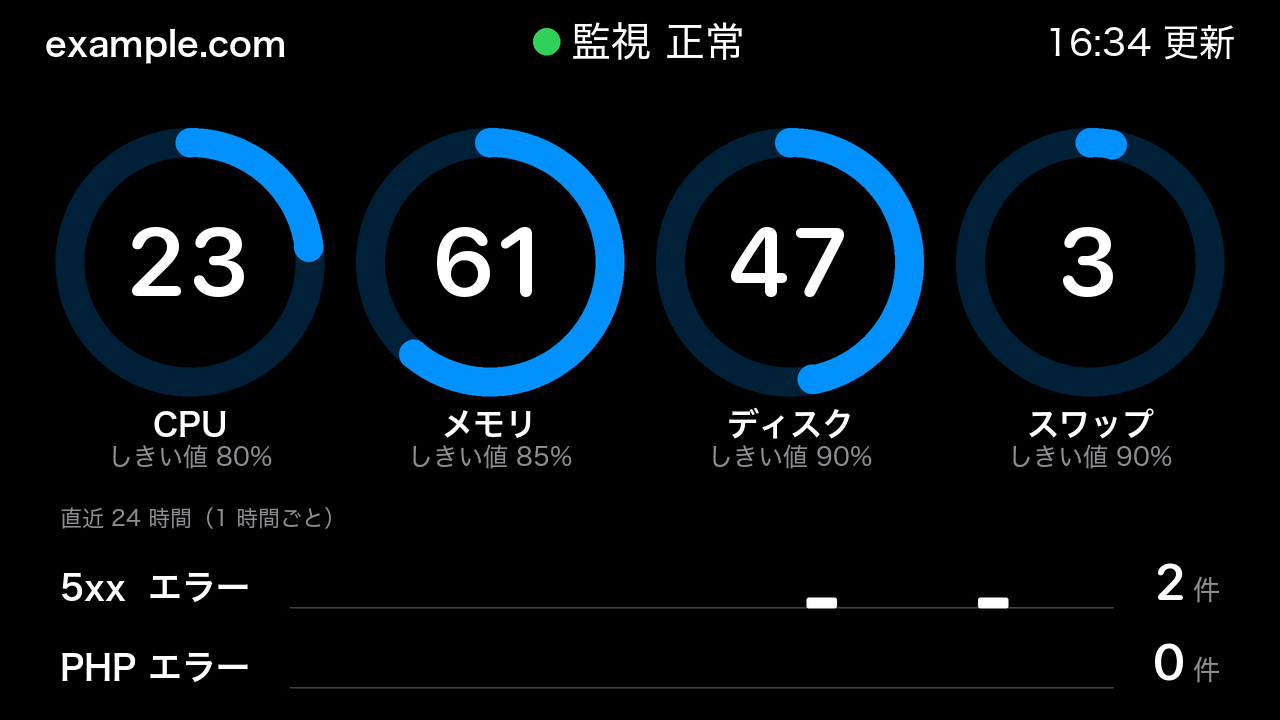
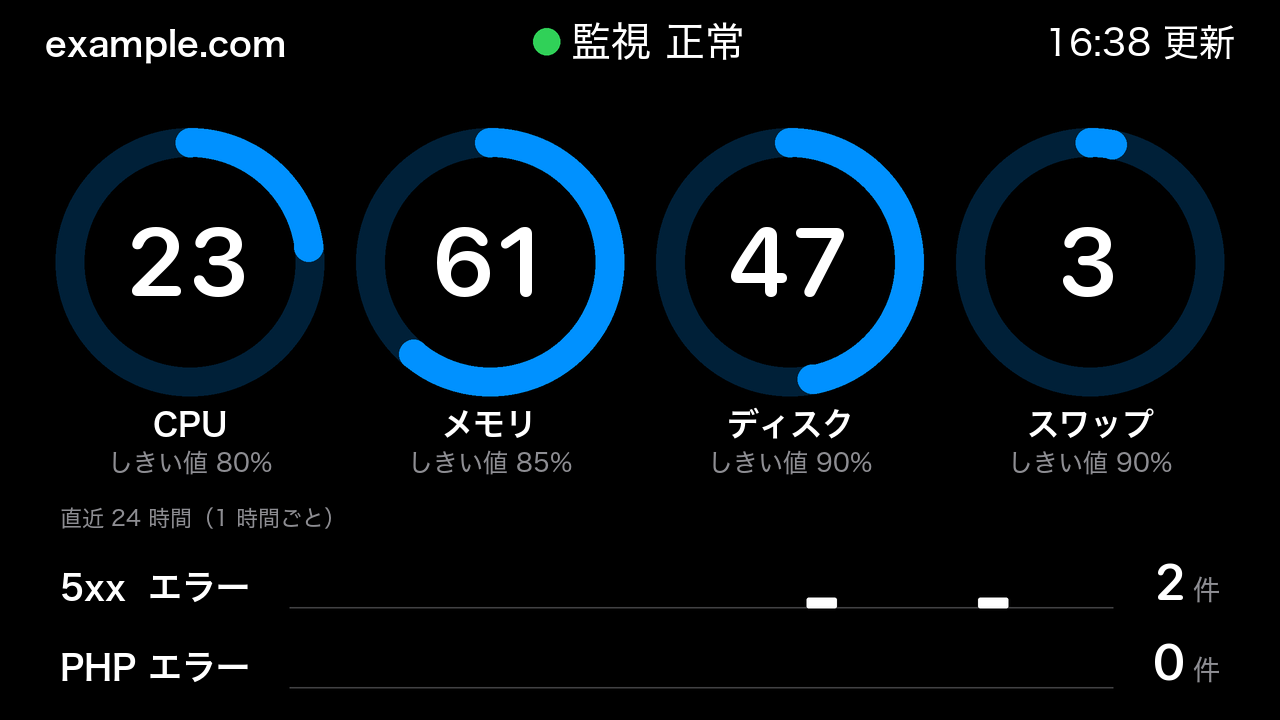
style(monitor): 5.2 インチの名前（CPU・メモリなど）としきい値の間を 5→11 px に空ける
しきい値の基準線を 466→472 px にする。リングと名前は動かさない。見本の 2 案から
ユーザーが選んだ。

diff --git a/claude_usage_display/monitor_screen.py b/claude_usage_display/monitor_screen.py
@@ -147,8 +147,10 @@ LANDSCAPE_LARGE = replace(
     # 外径 228→240 px・数字 81→86 px にした（同日、ユーザーの指示）。名前・しきい値の位置は変えていない
     # 続けて件数の行の間の罫線を消し（2026-11-04）、行の高さを 108→80 に詰めた分で、リングを外径 240→268 px・
     # 太さ 26→29 px・数字 86→97 px にした（同日、ユーザーの指示）。リングの上端 128 px と画面の下の余白 32 px は変えていない
+    # 続けて、名前としきい値の間を 5→11 px に空けた（しきい値の基準線 466→472 px。同日、ユーザーの指示「項目名と
+    # 下のしきい値の間をもう少し」。見本の 2 案から選んだ。しきい値と「直近 24 時間」の間は 38→32 px）
     ring=(0, _px(262), _px(134), _px(29)), label=(0, _px(436), "ms", 14), number=(0, _px(296), 43, 0, True),
-    threshold=(0, _px(466), "ms", 11), dividers=(),
+    threshold=(0, _px(472), "ms", 11), dividers=(),
     headings=((_px(60), _px(526), "直近 24 時間（1 時間ごと）", 10, SMALL_WEIGHT, "ls"),),
     # 件数の行の棒グラフは、右端を件数の数字の左から 40 px の所にする（2026-11-04、ユーザーの指示「横棒の後ろの件数の
     # 前の空きが気になる」。見本の 2 案から選んだ。それまでは幅 560 px の固定で、1 桁の件数との間が約 265 px 空いていた）。

diff --git a/tests/test_monitor_screen.py b/tests/test_monitor_screen.py
@@ -120,6 +120,20 @@ class MonitorScreenTest(unittest.TestCase):
         rows = large.counter_rows
         self.assertLessEqual(rows.top + rows.height * 2, 320)
 
+    def test_large_threshold_keeps_a_gap_below_the_label(self):
+        # 2026-11-04、「項目名と下のしきい値の間をもう少し隙間空けて」（ユーザーの指示）。字の形の間は 5→11 ピクセル
+        cfg = config(counters=COUNTERS)
+        st = status_with_counters()
+        image = ms.render(st, sm.assess(st, cfg, NOW), cfg, layout=ms.LANDSCAPE_LARGE)
+        k = ms.LANDSCAPE_LARGE.k
+        x0 = round(ms.LANDSCAPE_LARGE.cells[0][0] * k)  # 1 つ目（CPU）の列の中央
+        label_y, threshold_y = ms.LANDSCAPE_LARGE.label[1] * k, ms.LANDSCAPE_LARGE.threshold[1] * k
+        inked = [y for y in range(round(label_y - 40), round(threshold_y + 10))
+                 if any(min(image.getpixel((x, y))) > 60 for x in range(x0 - 90, x0 + 90))]
+        gaps = [b - a - 1 for a, b in zip(inked, inked[1:]) if b - a > 1]
+        self.assertEqual(len(gaps), 1)  # 名前としきい値の 2 つの字の並びの間
+        self.assertGreaterEqual(gaps[0], 10)
+
     def test_counter_rows_show_the_total_and_red_bars_for_alarmed_hours(self):
         cfg = config(counters=COUNTERS)
         st = status_with_counters(hourly_5xx=(0,) * 21 + (1, 3, 12), alarmed_5xx=(False,) * 23 + (True,))

diff --git a/docs/handover.md b/docs/handover.md
@@ -563,6 +563,13 @@ scripts/uninstall-launch-agent.sh                                 # 自動起動
 - **入れたこと**: `_CounterRows.spark` を（左端・幅・高さ・下端）から（名前・件数の数字との間・高さ・下端）に替え（5.2 インチは `_px(40)`）、両端は `monitor_screen._spark_span` で求める。字の端は送り幅ではなく字の形（`getbbox`）で測る。名前の分け方は `_counter_labels`、件数の文言と右端は `_counter_numbers`。テスト `test_spark_keeps_the_same_gap_to_the_label_and_the_number`（2 行の両端がそろうこと、左の間と、件数の幅の大きい行の右の間が 40 px、1234 件で右端が縮むこと）
 - 件数の行より上（リング・見出し）は 1 ピクセルも変わっていない（README の `monitor-1280x720.png` を作り直して前の画像と比べ、違いは件数の行と右上の時刻だけだった）。3.5 インチの画面には件数の行が無いので変わらない
 
+### 4-32. サーバーの状態の画面（5.2 インチ）の、名前としきい値の間を空けた（2026-11-04）
+
+- **ユーザーの指示**: 「rikkama.jp: CPU、メモリなどの項目名と下のしきい値の間をもう少し隙間空けて」
+- **測ったこと**（5.2 インチの画素、字の形）: リング 125〜398・名前 407〜438・しきい値 444〜468・「直近 24 時間」507〜528。名前としきい値の間は 5 px、リングと名前の間は 8 px、しきい値と「直近 24 時間」の間は 38 px
+- **見本**: リングと名前は動かさず（リングとの間が狭いため）、しきい値だけを 6 px（案 A。間 11 px・下との間 32 px）と 10 px（案 B。15 px・28 px）下げた 2 案を見せ、**ユーザーが案 A（推奨）を選んだ**
+- **入れたこと**: `monitor_screen.LANDSCAPE_LARGE.threshold` の基準線を `_px(466)`→`_px(472)`。しきい値は 450〜474 px。テスト `test_large_threshold_keeps_a_gap_below_the_label`（CPU の列で、名前としきい値の字の間が 10 px 以上）。README の `monitor-1280x720.png` を作り直し、見出しより下で変わったのはしきい値の行だけであることを確かめた。3.5 インチの画面（`LANDSCAPE`・`PORTRAIT`）は変えていない
+
 ## 5. 残っている作業（上から順に）
 
 1〜5 は 2026-10-05 に終えた（README.md、CLAUDE.md、requirements.txt と .gitignore、自動起動の作成と登録、git の初期化と push）。
